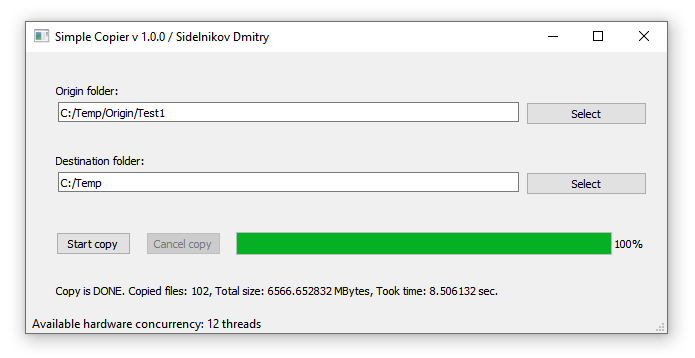
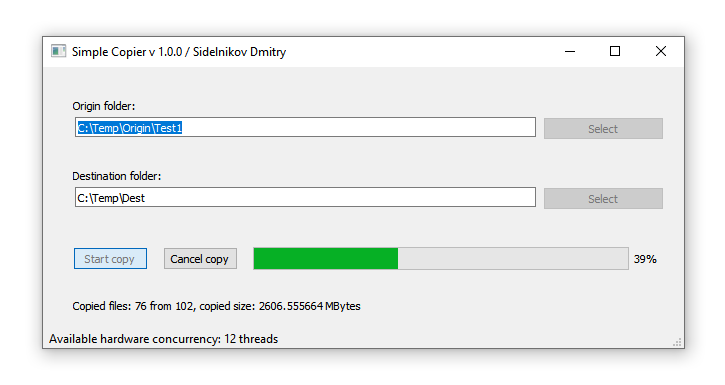
Different improvements in copy app, screenshots were updated

Changed region(s): [[0.0302, 0.0307, 0.9669, 0.9525]]

diff --git a/SourceCode/mainwindow.cpp b/SourceCode/mainwindow.cpp
@@ -14,9 +14,6 @@ namespace fs = std::filesystem;
 
 using namespace std::chrono_literals;
 
-const std::string tempFN = "copy_plan_";
-const std::string tempExten = ".txt";
-
 //===================================================================================================================================
 
 MainWindow::MainWindow(QWidget *parent)
@@ -51,18 +48,26 @@ MainWindow::~MainWindow()
 
 void MainWindow::on_pushButtonDestination_clicked()
 {
-    const QString dest = QFileDialog::getExistingDirectory(this, "Select destination directory", ui->lineEditDestination->text(),
+    const QString dest = QFileDialog::getExistingDirectory(this, "Select destination directory",
+                                                           ui->lineEditDestination->text(),
                                                            QFileDialog::ShowDirsOnly);
-    ui->lineEditDestination->setText(dest);
+    if (!dest.isEmpty())
+    {
+        ui->lineEditDestination->setText(dest);
+    }
 }
 
 //===================================================================================================================================
 
 void MainWindow::on_pushButtonOrigin_clicked()
 {
-    const QString origin = QFileDialog::getExistingDirectory(this, "Select origin directory", ui->lineEditOrigin->text(),
+    const QString origin = QFileDialog::getExistingDirectory(this, "Select origin directory",
+                                                             ui->lineEditOrigin->text(),
                                                              QFileDialog::ShowDirsOnly);
-    ui->lineEditOrigin->setText(origin);
+    if (!origin.isEmpty())
+    {
+        ui->lineEditOrigin->setText(origin);
+    }
 }
 
 //===================================================================================================================================
@@ -89,10 +94,10 @@ void MainWindow::startCopy()
         QMessageBox::warning(this, "Fatal error", "Sorry not enought memory, can not alloc memory!");
         return;
     }
-    std::string tempDir = fs::temp_directory_path().string();
+    const auto tempDir = fs::temp_directory_path().string();
     for(size_t i = 0U; i < hardwConcur; i++)
     {
-        const std::string path = tempDir + tempFN + std::to_string(i) + tempExten;
+        const std::string path = tempDir + CopyLib::getTempFN() + std::to_string(i) + CopyLib::getTempExten();
 
         ppThreads[i] = new (std::nothrow) std::thread(CopyLib::worker, path,
                                                       std::ref(copiedFileSize),
@@ -117,15 +122,18 @@ void MainWindow::startCopy()
     // Update the progress
     while(fileNum != copiedFileNum && !copyCancel.load())
     {
+        std::this_thread::sleep_for(30ms);
+        QApplication::processEvents();
+
+        // Update info label
+        const std::string message = "Copied files: " + std::to_string(copiedFileNum) + " from "
+                + std::to_string(fileNum) + ", copied size: "
+                + std::to_string(copiedFileSize/1'048'576.0f) + " MBytes";
+        ui->labelStatus->setText(message.c_str());
+
         // Update progress bar
         const int value = (copiedFileSize * 100.0f) / scopeSize;
         ui->progressBar->setValue(value);
-
-        // Update info label
-        const std::string message = "Copied files: " + std::to_string(copiedFileNum) + ", bytes: " + std::to_string(copiedFileSize);
-        ui->labelStatus->setText(message.c_str());
-        std::this_thread::sleep_for(30ms);
-        QApplication::processEvents();
     }
 
     if (!copyCancel.load())
@@ -170,6 +178,10 @@ void MainWindow::on_pushButtonStartCopy_clicked()
             const auto ret = CopyLib::createCopyQueues(origin.toStdString(), dest.toStdString(), hardwConcur, scopeSize, fileNum);
             if (ret)
             {
+                ui->pushButtonStartCopy->setEnabled(false);
+                ui->pushButtonOrigin->setEnabled(false);
+                ui->pushButtonDestination->setEnabled(false);
+
                 const auto start = std::chrono::steady_clock::now();
                 
 				startCopy();
@@ -187,6 +199,10 @@ void MainWindow::on_pushButtonStartCopy_clicked()
                             + std::to_string(fileNum) + ", Copied size: "
                             + std::to_string(copiedFileSize/1'048'576.0f) + " MBytes, Took time: "
                             + std::to_string(time/1000.0f) + " sec.";
+
+                    // Update progress bar
+                    const int value = (copiedFileSize * 100.0f) / scopeSize;
+                    ui->progressBar->setValue(value);
                 }
                 else
                 {
@@ -200,6 +216,10 @@ void MainWindow::on_pushButtonStartCopy_clicked()
                 {
                     QMessageBox::warning(this, "Error", "Some files were not copied! Because of lack of permission or files were opened.");
                 }
+
+                ui->pushButtonStartCopy->setEnabled(true);
+                ui->pushButtonOrigin->setEnabled(true);
+                ui->pushButtonDestination->setEnabled(true);
             }
         }
         else
